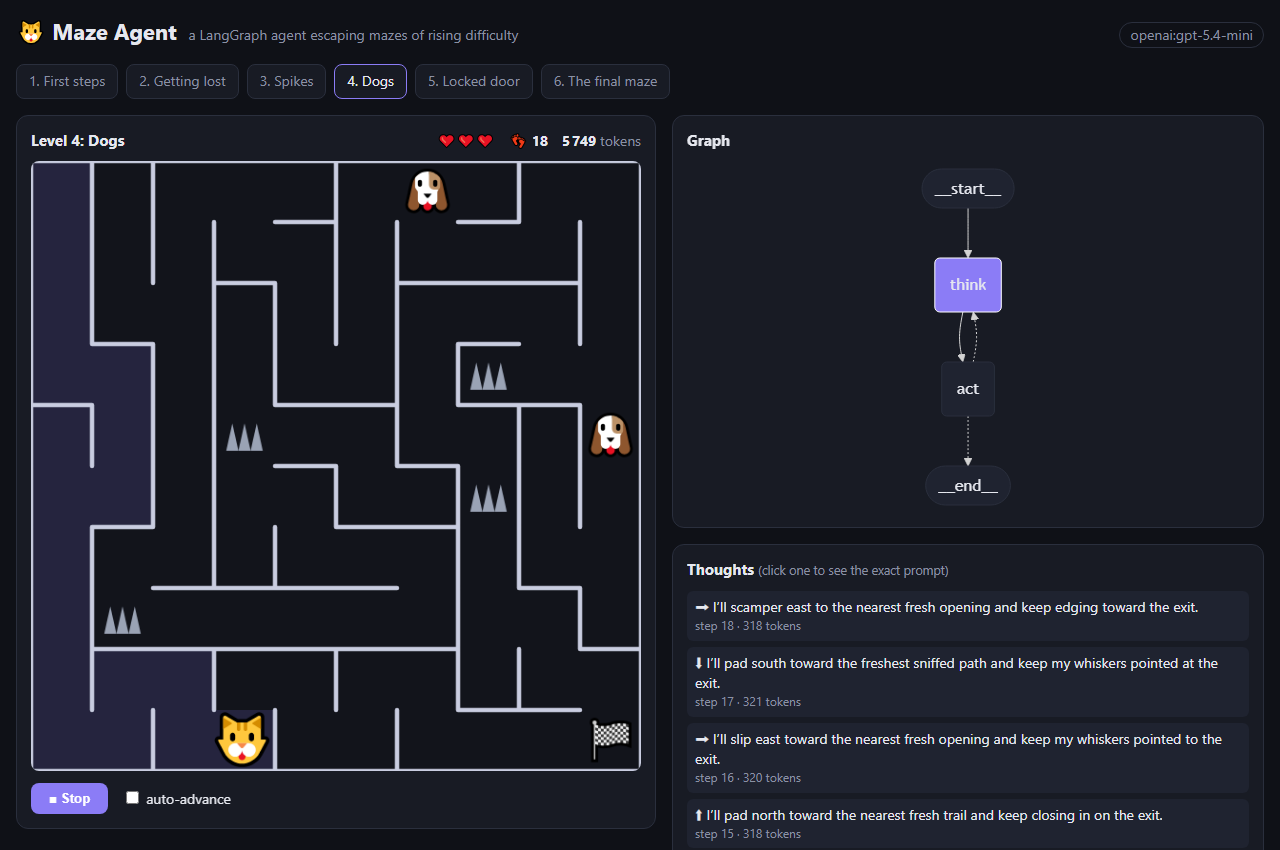
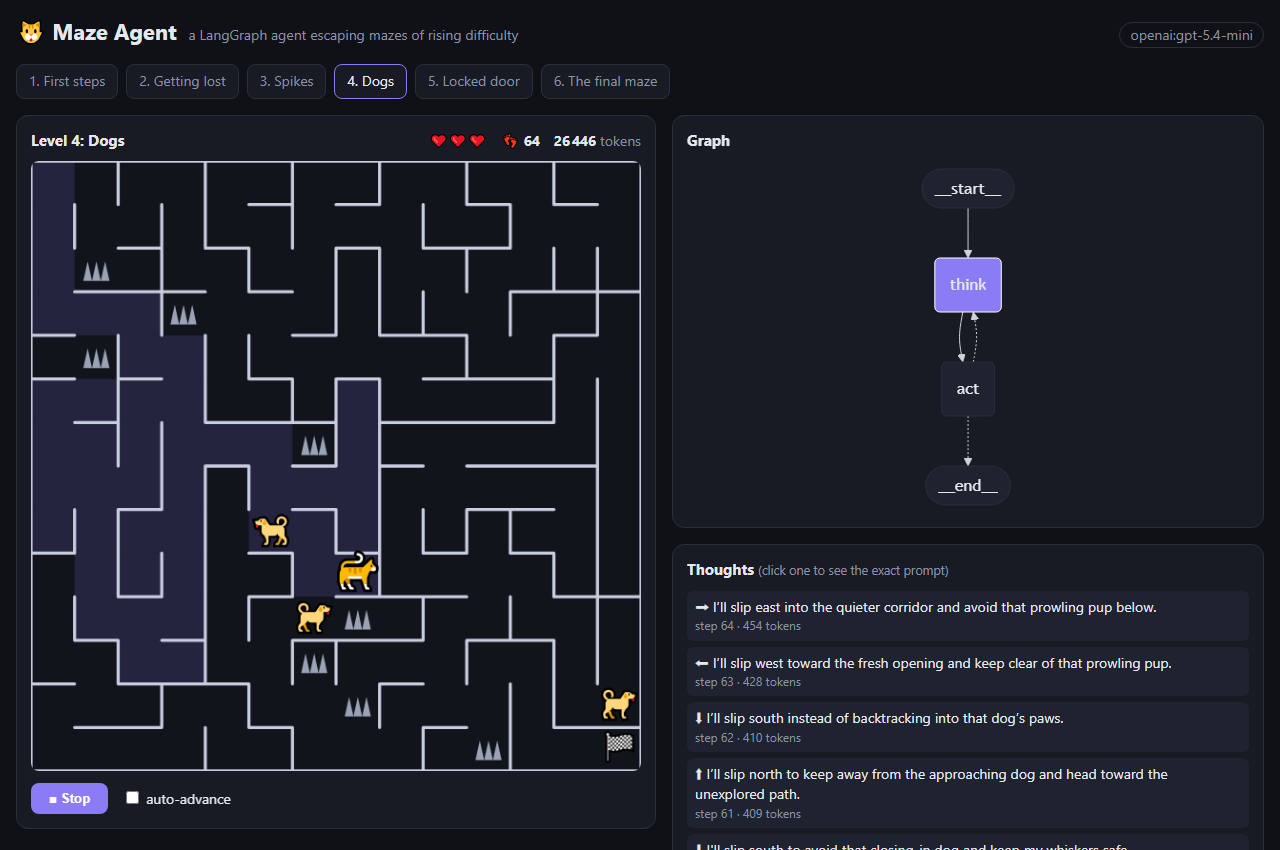
docs: new demo GIF and game rules in the README

Changed region(s): [[0.0, 0.1529, 0.5, 0.9176], [0.5312, 0.7035, 0.9688, 1.0], [0.4688, 0.1835, 0.5, 0.2141]]

diff --git a/README.md b/README.md
@@ -1,6 +1,6 @@
 # Maze Agent
 
-A LangGraph demo: an LLM-driven cat escapes 6 mazes of rising difficulty (walls, then spikes, dogs, and a locked door with its key).
+A LangGraph demo: an LLM-driven cat escapes 6 mazes of rising difficulty, from 7x7 to 18x18 (walls, then spikes, patrolling dogs, and a locked door with its key).
 
 ![Level 4 played live by gpt-5.4-mini (sped up)](docs/demo.gif)
 
@@ -15,6 +15,13 @@ Open http://127.0.0.1:8000 and press Play. Levels chain automatically.
 
 - Terminal only: `uv run python -m maze_agent --level 5`
 - Tests (no API key needed): `uv run pytest`
+
+## The game
+
+- Mazes use the growing-tree algorithm (many junctions) plus a few loops, so dangers can be walked around.
+- Spikes guard side corridors next to the exit path. Dogs patrol at half the cat's speed and never chase.
+- Each turn the cat moves or **waits**. It is told what sits next to it, which dogs it hears and whether they come closer.
+- Every level is solvable unhurt by construction (tested). The final level is still a real challenge for small models.
 
 ## How it works
 
@@ -36,7 +43,7 @@ START -> think -> act -> think -> ... -> END
 |---|---|
 | `maze_agent/maze.py` | seeded maze generation, path search |
 | `maze_agent/world.py` | hazard rules (pure functions) |
-| `maze_agent/levels.py` | the 6 levels, hazards placed so every level is solvable |
+| `maze_agent/levels.py` | the 6 levels, hazards placed near the path but never on it |
 | `maze_agent/brain.py` | prompt, `Decision` schema, `LLMBrain` (`init_chat_model`) |
 | `maze_agent/agent.py` | the LangGraph graph |
 | `maze_agent/runner.py` | runs a level as JSON events |
